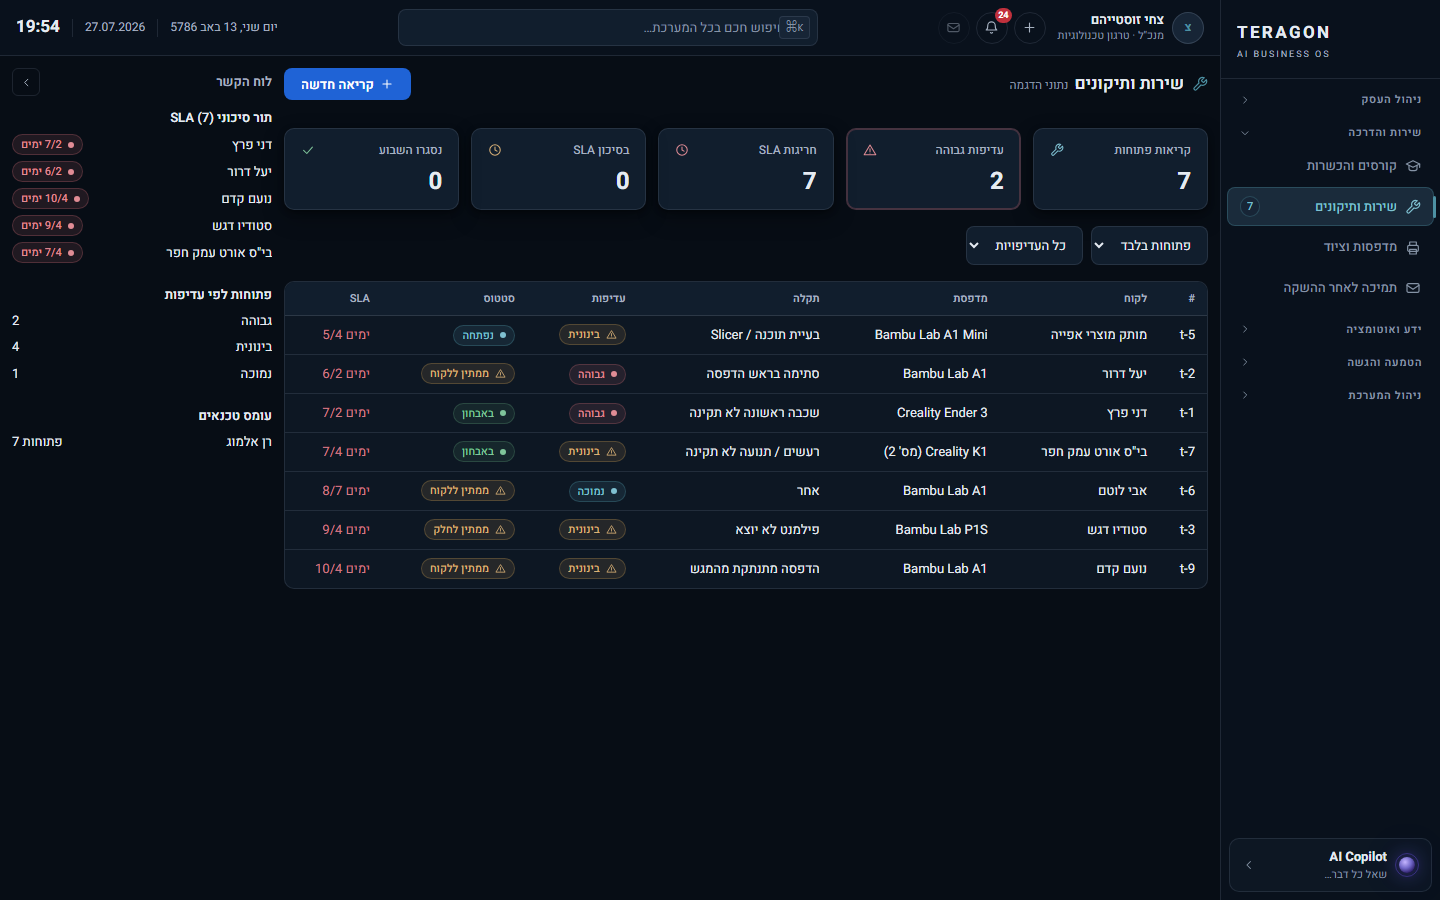
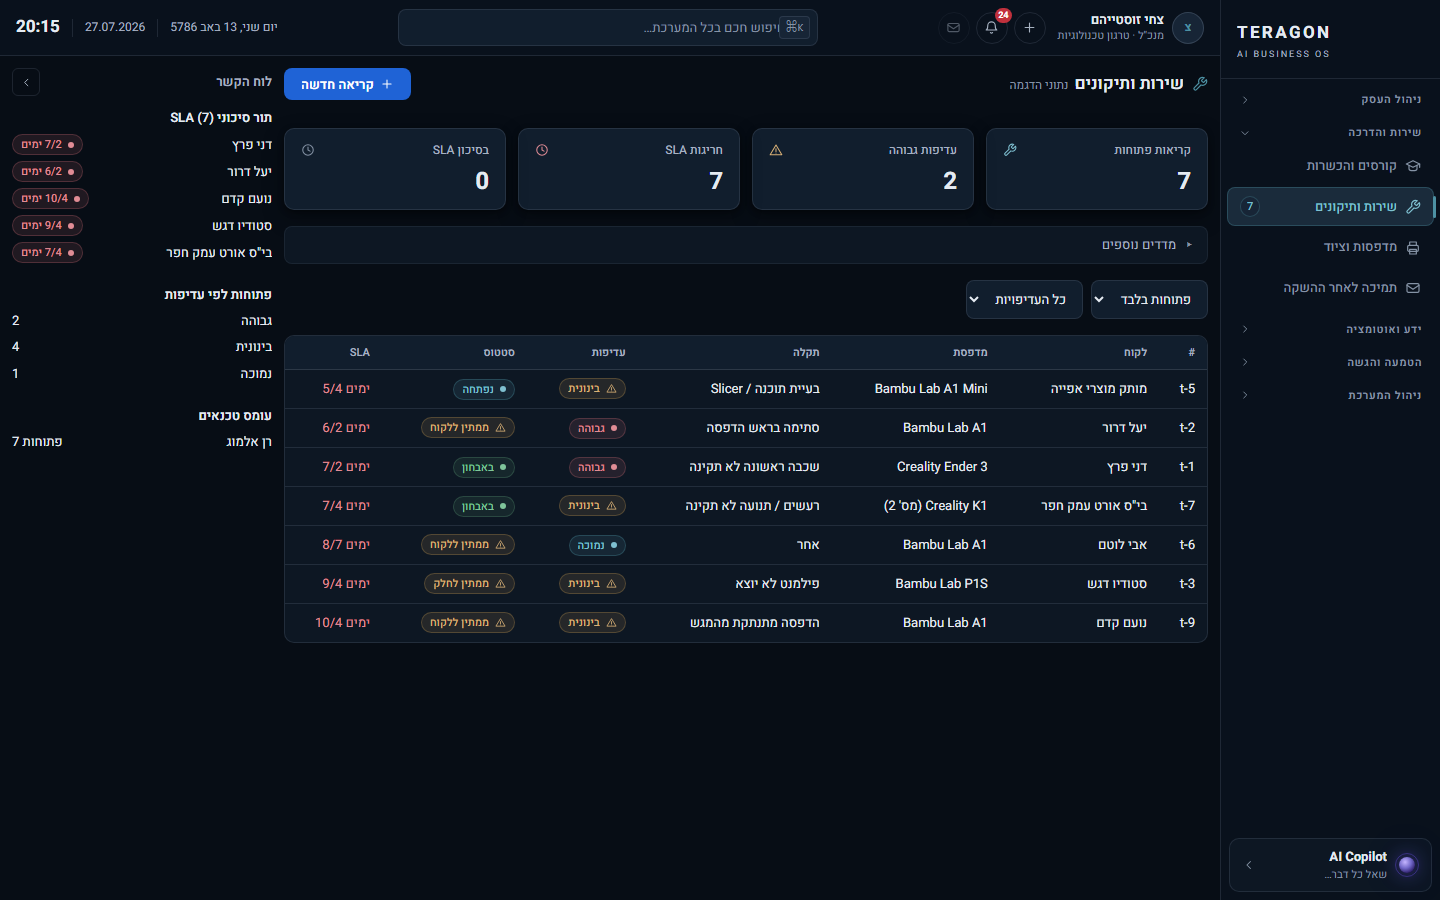
docs(visual-calm): pilot report + scorecard + 1440/1920/2560 screenshots (6 routes PASS)
Pilot gate PASSED: 6/6 routes <=4 KPIs, zero-neutral, 0 axe serious/critical,
no overflow, all actions accessible; lead-verified via exact-viewport headless
screenshots (not self-reports). Full suite 1694/1694.

diff --git a/docs/VISUAL_CALM_PILOT_REPORT.md b/docs/VISUAL_CALM_PILOT_REPORT.md
@@ -1,0 +1,37 @@
+# Visual Calm — Pilot Report (6 representative routes)
+
+Branch `post-release/visual-calm-v2`. Not deployed. Pilot gate: **PASSED**.
+
+The six pilots represent the app's workflow archetypes: complex learning (/courses), dense table (/crm), technical workbench (/service), AI status (/agents), policy & audit (/governance), charts & metrics (/analytics).
+
+## Gate criteria — all met
+| Criterion | Result |
+|---|---|
+| ≤4 primary KPIs on operational pages | ✓ all six |
+| One clear primary workflow | ✓ |
+| Secondary content moved out of initial view (drawer/מדדים נוספים/segmented) | ✓ |
+| No excessive card nesting (>3) | ✓ |
+| No default glow | ✓ |
+| **No zero value shown as success** | ✓ (KpiCard `muted` tone; governance "0 active policies" & agents/service zeros now neutral) |
+| No operational text <14px | ✓ (route bodies ≥14px; 11–12px limited to metadata/chips) |
+| No one-word Hebrew columns / no horizontal overflow | ✓ (18/18 shots overflow=false) |
+| axe: 0 serious / 0 critical | ✓ (6/6 @1440) |
+| All original actions accessible | ✓ (emergency stop → row menu + header; detail → drawer) |
+
+## Per-route summary
+- **/courses** (`8d7f3e5`): 5→4 KPIs (3 cards + progress strip); לומדים פעילים/קורסים פעילים → מדדים נוספים; approved v3 structure (3 phases, active-step list, no 14-stepper, no permanent insights rail) untouched.
+- **/governance** (`9ee934f`): 8→4 KPIs (ממתינות לבדיקה / סיכונים הדורשים טיפול / אירועים פתוחים / פעולות ממשל ממתינות לאישור); active-policies, drafts, audit-events, findings → מדדים נוספים; "0 active policies" no longer green.
+- **/agents** (`00ae09f`-line): 4 KPIs fixed (fleet/active-runs/pending/failed-runs, zeros muted); cost (טרם נמדד) → מדדים נוספים (was green success); per-row emergency button → quiet "פעולות" row menu + one "השבתת חירום מערכתית" header control (two-step confirm).
+- **/analytics** (`98ec14e`): 6 simultaneous groups → 1 at a time via segmented nav; 4 steel executive KPIs; single steel-blue chart series (removed the cyan/blue/warning/success/violet rainbow map); calculation methods/sources → disclosure; table alternative preserved.
+- **/crm** (`3cf9b8a`): 4 quiet KPIs (conversion% & totals → מדדים נוספים); lead & customer detail → Drawer; per-row expand/owner-select/status-button removed; one steel selected-row accent; calm table.
+- **/service** (`a52e5fdf` merge): 5→4 KPIs; timeline/history/parts → Drawer; SLA numbers use `-text` variants; one selected-row accent; diagnosis panel de-glowed.
+
+## Foundation reused (no per-route shared edits)
+`KpiCard muted` tone (zero-neutral), `.os-more-metrics` disclosure, calm `OS_ACCENT_HEX`, `Drawer`. Route agents were scope-locked to their module (+ a module-scoped `*.css`); zero edits to `tokens.css`/`components.css`/`design-system`/`layout`/`app` from the route waves.
+
+## Verification method (honest)
+Each route was integrated then **independently** re-verified by the lead: fresh production build → axe → screenshots at 1440/1920/2560 from an exact-viewport headless render → visual inspection. Self-reported agent results were NOT taken as proof. Screenshots: `docs/screenshots/visual-calm/<route>-<size>.png`.
+
+## Known limitations (pilot)
+- Contextual left rails on /analytics, /service, /crm remain fairly dense (they carry honest governance/queue context). Acceptable as the single permitted rail; candidates for further disclosure in VC-G.
+- /agents pending-approvals KPI uses amber (action-required) rather than AI-violet; defensible under "amber when action required".

diff --git a/docs/VISUAL_CALM_ROUTE_SCORECARD.md b/docs/VISUAL_CALM_ROUTE_SCORECARD.md
@@ -1,0 +1,49 @@
+# Visual Calm — Route Scorecard
+
+Scores 1–5 per dimension. Gate: a route scoring <4 in **readability**, **hierarchy**, or **long-session comfort** must be repaired before completion. All routes inherit the calm palette (VC-A) + calm shell (VC-B) globally.
+
+Legend: RD readability · HR hierarchy · LS long-session comfort · DN density · CR color-restraint · ST status-clarity · RTL rtl · AC action-clarity · SP spacing · CN consistency.
+
+## Pilot routes (density-complete, lead-verified)
+| Route | RD | HR | LS | DN | CR | ST | RTL | AC | SP | CN | axe |
+|-------|----|----|----|----|----|----|-----|----|----|----|-----|
+| /courses | 5 | 5 | 5 | 5 | 5 | 5 | 5 | 5 | 5 | 5 | 0/0 |
+| /governance | 5 | 5 | 5 | 4 | 5 | 5 | 5 | 5 | 4 | 5 | 0/0 |
+| /agents | 5 | 5 | 5 | 5 | 5 | 5 | 5 | 5 | 5 | 5 | 0/0 |
+| /analytics | 5 | 5 | 4 | 4 | 5 | 5 | 5 | 4 | 4 | 5 | 0/0 |
+| /crm | 5 | 5 | 5 | 5 | 5 | 5 | 5 | 5 | 5 | 5 | 0/0 |
+| /service | 5 | 5 | 4 | 4 | 5 | 5 | 5 | 5 | 4 | 5 | 0/0 |
+
+No pilot scores <4 in RD/HR/LS → gate passed. /analytics & /service LS=4 (dense contextual rail) — acceptable, flagged for VC-G polish.
+
+## Remaining 25 routes — status
+Palette + shell calm inherited globally (color/glow/border/type). **Density pass pending** (VC-C/VC-D/VC-E/VC-F). Rows filled as each completes.
+
+| Route | Wave | Density pass | RD/HR/LS | Notes |
+|-------|------|--------------|----------|-------|
+| / (command center) | VC-C | pending | — | decisions-first; subdue agent network unless active |
+| /customers/:id | VC-C | pending | — | identity+next-action; section tabs |
+| /sales | VC-C | pending | — | pipeline first; evidence in panel |
+| /documents | VC-C | pending | — | list+selected; preview on demand |
+| /tasks | VC-C | pending | — | queue first; no decorative KPI strip |
+| /printers | VC-D | pending | — | fleet table; maintenance timeline |
+| /organizations | VC-D | pending | — | identity+contacts+agreements; history in tabs |
+| /support | VC-D | pending | — | — |
+| /agents/collaboration | VC-E | pending | — | — |
+| /automations | VC-E | pending | — | state + pending approvals; run log on demand |
+| /memory | VC-E | pending | — | record nav; graph only when useful |
+| /knowledge | VC-E | pending | — | as memory |
+| /learning | VC-E | pending | — | as memory |
+| /implementation | VC-F | pending | — | — |
+| /personas | VC-F | pending | — | — |
+| /stage-gates | VC-F | pending | — | — |
+| /training-materials | VC-F | pending | — | — |
+| /quick-start | VC-F | pending | — | — |
+| /faq | VC-F | pending | — | — |
+| /submission | VC-F | pending | — | blockers first; pending-human=amber; complete-not-approved=neutral |
+| /administration | VC-F | pending | — | tables + permission workflow; emergency separated |
+| /system-health | VC-F | pending | — | neutral healthy; color only when degraded; method+last-check |
+| /settings | VC-F | pending | — | grouped; advanced behind disclosure |
+| presentation | VC-F | pending | — | keep presentation hierarchy; no dense chrome |
+
+Scoring for the remaining routes is completed as their density pass lands.
